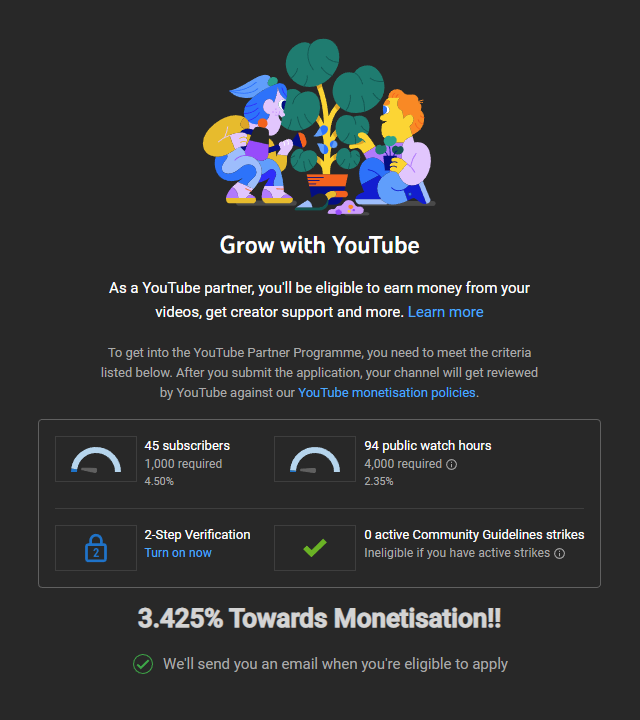
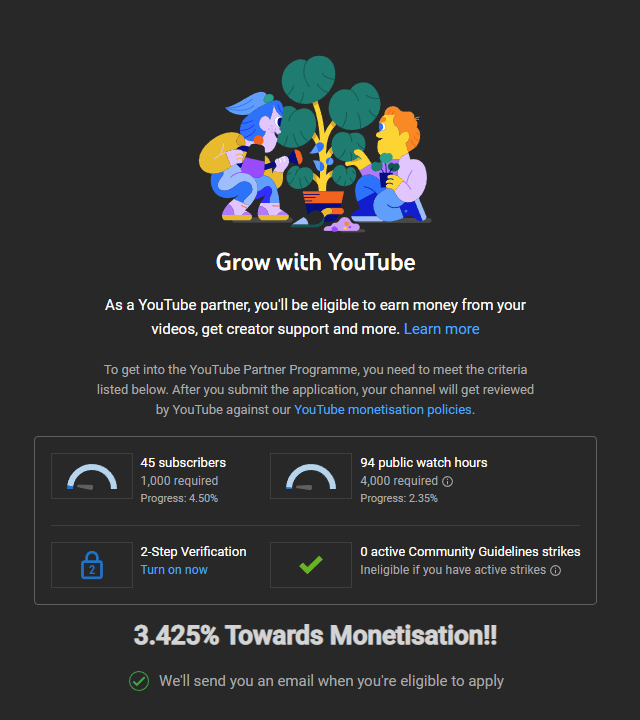
small fix
small fix for text and example image

diff --git a/content.js b/content.js
@@ -58,7 +58,7 @@ function watPerc() {
 // populate percentage for type (sub/wat)
 function populatePerc(type, perc) {
     const text = document.createElement('small');
-    text.innerText = `${perc.toFixed(2)}%`;
+    text.innerText = `Progress: ${perc.toFixed(2)}%`;
     type.cont.append(text);
 }
 // populate total percentage
